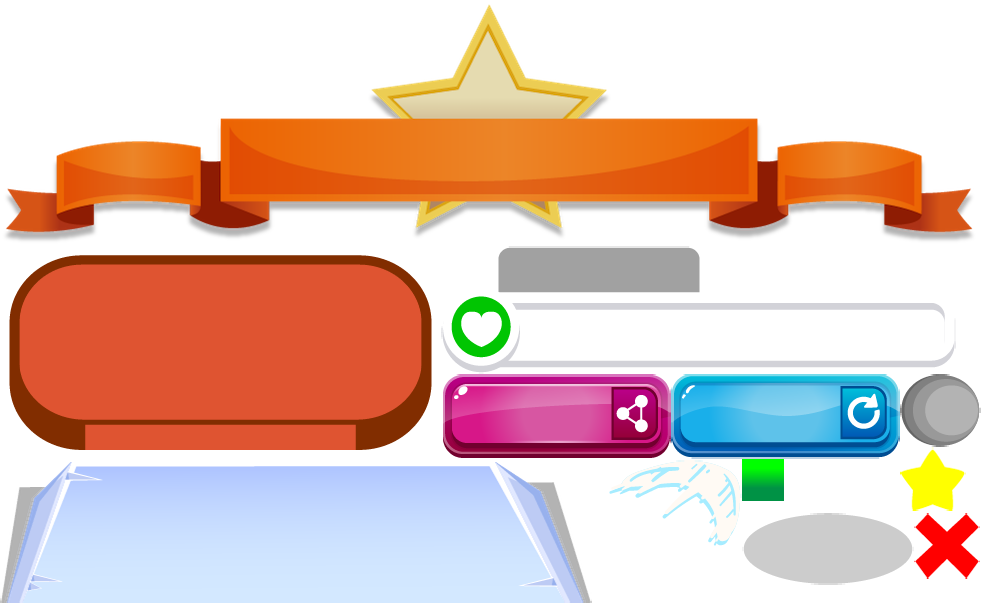
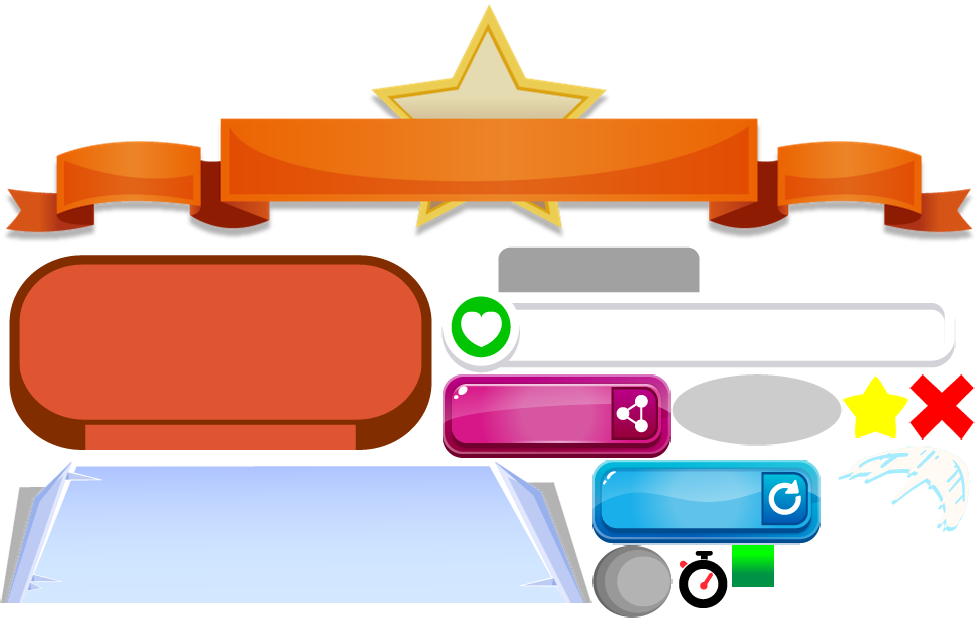
mathTournament update

diff --git a/nonrefactored/mathTournament/mathServer/js/scenes/battle.js b/nonrefactored/mathTournament/mathServer/js/scenes/battle.js
@@ -120,6 +120,7 @@ var battle = function(){
 	var ready, go
 	var hudGroup
 	var frontGroup
+	var answersGroup
 
     function loadSounds(){
         sound.decode(assets.sounds)
@@ -139,7 +140,9 @@ var battle = function(){
         game.add.tween(sceneGroup).to({alpha:1},400, Phaser.Easing.Cubic.Out,true)
         inputsEnabled = false
 		if(server){
-			server.addEventListener('afterGenerateQuestion', generateQuestion);
+			server.removeEventListener('afterGenerateQuestion', generateQuestion);
+			server.removeEventListener('onTurnEnds', checkAnswer);
+        	server.addEventListener('afterGenerateQuestion', generateQuestion);
 			server.addEventListener('onTurnEnds', checkAnswer);
 		}
 
@@ -363,7 +366,9 @@ var battle = function(){
     }
 
     function checkAnswer(event) {
-		var data = server ? server.currentData.data : {operand1:100, opedator:"+", operand2:100, result:200, correctAnswer:200}
+		// game.add.tween(answersGroup).to({y:game.world.height}, 500, Phaser.Easing.Cubic.Out, true)
+
+    	var data = server ? server.currentData.data : {operand1:100, opedator:"+", operand2:100, result:200, correctAnswer:200}
 		switch ("?"){
 			case data.operand1:
 				data.operand1 = data.correctAnswer
@@ -575,7 +580,8 @@ var battle = function(){
 		player1.add(input1)
 		input1.inputEnabled = true
 		input1.events.onInputDown.add(function () {
-			checkAnswer({numPlayer:1})
+			// checkAnswer({numPlayer:1})
+			stopGame()
 		})
 
 		var input2 = game.add.graphics()
@@ -651,8 +657,8 @@ var battle = function(){
 				server.retry()
 			}
 			console.log("retryPressed")
-			window.open("index.html", "_self")
-            // sceneloader.show("battle")
+			// window.open("index.html", "_self")
+            sceneloader.show("battle")
         })
     }
 
@@ -836,7 +842,41 @@ var battle = function(){
 		retryBtn.inputEnabled = true
 		retryBtn.events.onInputDown.add(onClickBtn)
 	}
+	
+	function createPlayerStats(direction) {
+		var statsGroup = game.add.group()
+		answersGroup.add(statsGroup)
 
+    	var fontStyle = {font: "26px VAGRounded", fontWeight: "bold", fill: "#000000", align: "center"}
+		// var answerLabel = game.add.text(140 * direction, -110, "Answer", fontStyle)
+		// answerLabel.anchor.setTo(0.5, 0.5)
+		// statsGroup.add(answerLabel)
+
+		var answerBg = game.add.graphics()
+		answerBg.beginFill(0x000000)
+		answerBg.drawRoundedRect(0,0, 80, 50, 10)
+		answerBg.endFill()
+		statsGroup.add(answerBg)
+		answerBg.x = 160 * direction - answerBg.width * 0.5
+		answerBg.y = -90 - answerBg.height * 0.5
+		answerBg.alpha = 0.6
+
+		var timeImg = statsGroup.create(220 * direction, -30, "atlas.battle", "stopwatch")
+		timeImg.scale.setTo(0.7, 0.7)
+		timeImg.anchor.setTo(0.5, 0.5)
+
+		var timeBg = game.add.graphics()
+		timeBg.beginFill(0x000000)
+		timeBg.drawRoundedRect(0,0, 100, 40, 10)
+		timeBg.endFill()
+		statsGroup.add(timeBg)
+		timeBg.x = 140 * direction - timeBg.width * 0.5
+		timeBg.y = -30 -timeBg.height * 0.5
+		timeBg.alpha = 0.6
+
+		return statsGroup
+	}
+	
     function createbattleUI() {
 
         var fontStyle = {font: "55px VAGRounded", fontWeight: "bold", fill: "#350A00", align: "center"}
@@ -855,15 +895,19 @@ var battle = function(){
 		equation.anchor.setTo(0.5,0.5)
 		questionGroup.add(equation)
 
-		var answersGroup = game.add.group()
+		answersGroup = game.add.group()
 		answersGroup.x = game.world.centerX
 		answersGroup.y = game.world.height
 		hudGroup.uiGroup.add(answersGroup)
 
 		var bar = answersGroup.create(0,0, "atlas.battle", "bar")
 		bar.anchor.setTo(0.5, 1)
+		answersGroup.y = answersGroup.y + bar.height
 
-        var correctParticle = createPart("star")
+		createPlayerStats(-1)
+		createPlayerStats(1)
+
+		var correctParticle = createPart("star")
         sceneGroup.add(correctParticle)
 		sceneGroup.correctParticle = correctParticle
 

diff --git a/nonrefactored/mathTournament/mathClient/js/scenes/operations.js b/nonrefactored/mathTournament/mathClient/js/scenes/operations.js
@@ -139,6 +139,10 @@ var operations = function(){
 
 		loadSounds()
 
+		if(cliente){
+			cliente.restartGame = stopGame
+		}
+
 	}
 	
 	function addButtons() {
@@ -239,7 +243,7 @@ var operations = function(){
 		//objectsGroup.timer.pause()
 		//timer.pause()
 		// operationsSong.stop()
-		clock.tween.stop()
+		// clock.tween.stop()
 		inputsEnabled = false
 		cliente.removeEventListener("onTurnEnds", checkAnswer)
 		cliente.removeEventListener("onGameEnds", showWinner)
@@ -248,12 +252,13 @@ var operations = function(){
 		var tweenScene = game.add.tween(sceneGroup).to({alpha: 0}, 500, Phaser.Easing.Cubic.In, true, 750)
 		tweenScene.onComplete.add(function(){
 
-			var resultScreen = sceneloader.getScene("result")
-			resultScreen.setScore(true, numPoints, gameIndex)
+			// window.open("../mathClient/index.html", "_self")
+			// var resultScreen = sceneloader.getScene("result")
+			// resultScreen.setScore(true, numPoints, gameIndex)
 
 			//amazing.saveScore(pointsBar.number)
-			sceneloader.show("result")
-			sound.play("gameLose")
+			sceneloader.show("operations")
+			// sound.play("gameLose")
 		})
 	}
 
@@ -568,6 +573,9 @@ var operations = function(){
 			sceneGroup.add(differenceTimeText)
 
 			if(cliente){
+				cliente.removeEventListener("onTurnEnds", checkAnswer)
+				cliente.removeEventListener("onGameEnds", showWinner)
+				cliente.removeEventListener("showPossibleAnswers", startRound)
 				cliente.addEventListener("onTurnEnds", checkAnswer)
 				cliente.addEventListener("showPossibleAnswers", startRound)
 				cliente.addEventListener("onGameEnds", showWinner)

diff --git a/nonrefactored/mathTournament/tournamentSite/js/server.js b/nonrefactored/mathTournament/tournamentSite/js/server.js
@@ -58,6 +58,7 @@ function Server(){
 			self.events[name].push(handler);
 		else
 			self.events[name] = [handler];
+		console.log(self.events[name])
 	};
 
 	/* This is a bit tricky, because how would you identify functions?
@@ -422,7 +423,10 @@ function Server(){
 	 * @summary Starts the server
 	 */
 	this.start = function(inLevel, currentId){
-        var promise = makeid(currentId);
+		self.events = {};
+		console.log(self.events)
+
+		var promise = makeid(currentId);
         promise.then(function(id){
         	id_game = id;
 			level = inLevel
@@ -528,9 +532,9 @@ function Server(){
 			//Borrando los datos al abandonar la partida
 			window.onbeforeunload = function(){
                 // if(!id_game.includes("egs"))
-					// refIdGame.remove();
+					refIdGame.remove();
                 // else
-                	self.retry();
+                // 	self.retry();
 			};
 			serverReady = true;
         });
@@ -554,6 +558,7 @@ function Server(){
 		valores.gameEnded = false;
 		valores.retry = {retry:true, date:actualDate};
 		refIdGame.set(valores);
+		// refIdGame.remove();
 
 	}
 	

diff --git a/nonrefactored/mathTournament/mathServer/index.html b/nonrefactored/mathTournament/mathServer/index.html
@@ -136,7 +136,7 @@
             <div id="nickNameP1" class="nickNamePlayer">Player 1</div>
         </div>
         <div id="joinPin">
-            <div class="text9"></div><br><br>
+            <div id="joinText" class="text9"></div><br><br>
             <div id="pinNumber"></div><br>
             <div id="beginGame">
                 <div class="text10"></div>
@@ -161,7 +161,14 @@
 </body>
 <!--<script src="js/site.js"></script>-->
 <script>
-        
+
+	if((server)&&(server.getIdGame())){
+		var pinSection = document.getElementById("pinNumber");
+		pinSection.style.visibility  = 'hidden';
+		var pinText = document.getElementById("joinText");
+		pinText.style.visibility  = 'hidden';
+	}
+
         var language = "EN"
         if(parent.window.location.search){
             var params = parent.window.location.search.trim(1)

diff --git a/nonrefactored/mathTournament/mathClient/index.html b/nonrefactored/mathTournament/mathClient/index.html
@@ -135,6 +135,7 @@ localizationData = {
 		if((cliente)&&(cliente.id_game)){
 			var pinSection = document.getElementById("pin");
 			pinSection.style.display = 'none';
+			$("#idGame").val(cliente.id_game)
 		}
 
 		var yogotarCharacters = [
@@ -150,12 +151,6 @@ localizationData = {
                 nameText:"Luna",
                 img:"images/luna.png"
             },
-            {   
-                index:2,
-                name:"luna2",
-                nameText:"Luna2",
-                img:"images/luna.png"
-            }
         ];
         
                 $("#nameYogo").append('<div id="nameYogotarStroke">'+yogotarCharacters[0].nameText +'</div><div id="nameYogotar">'+yogotarCharacters[0].nameText +'</div>');

diff --git a/nonrefactored/mathTournament/tournamentSite/js/client.js b/nonrefactored/mathTournament/tournamentSite/js/client.js
@@ -31,6 +31,7 @@ function Client(){
 			self.events[name].push(handler);
 		else
 			self.events[name] = [handler];
+		console.log(self.events[name])
 	};
 
 	/* This is a bit tricky, because how would you identify functions?
@@ -68,6 +69,8 @@ function Client(){
 	 * @param {type} idGame Code of the game
 	 */
 	this.start =function(player, idGame){
+		self.events = {};
+		console.log(self.events)
 		self.id_game = idGame;
 		self.player = player
 		self.refIdGame= database.ref(self.id_game);

diff --git a/nonrefactored/mathTournament/mathClient/js/main.js b/nonrefactored/mathTournament/mathClient/js/main.js
@@ -16,9 +16,6 @@ function startGame(){
 	    	function onCompleteSceneLoading(){
 				if(cliente) {
 					cliente.setReady(true)
-					cliente.restartGame = function () {
-						window.open("../mathClient/index.html", "_self")
-					}
 				}
 					sceneloader.show("operations")
 	    	}
